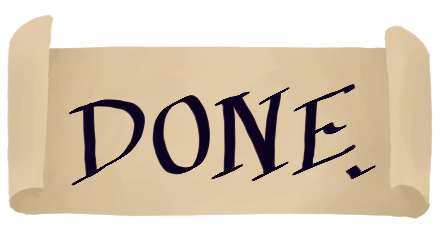
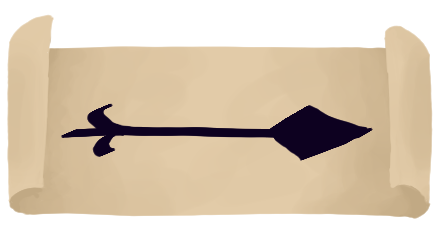
finalisations scène fin & titre

diff --git a/scenes/Niveaux/Niveau1.js b/scenes/Niveaux/Niveau1.js
@@ -11,7 +11,7 @@ class Niveau1 extends Phaser.Scene{
      }
 
     create(){  
-        content = 'Let’s see how you get on with this first page! The first letter is an illuminated ‘A’! Elsewhere, the names ‘Aldenwick’ and ‘Elvenmere’, our town and the sea, are not capitalised. If you need help, click on the button with ‘?’';
+        content = 'Let’s see how you get on with this first page! The first letter is an illuminated ‘A’! Elsewhere, the names ‘Aldenwick’ and ‘Elvenmere’, our town and the sea, are not capitalised. If you need help, click on the button with ‘?’ Click on the arrow when you’re done.';
         reinitialiseInput();
 
         this.add.image(100, 250,'niv1').setScale(1/3).setOrigin(0);

diff --git a/scenes/title.js b/scenes/title.js
@@ -30,7 +30,7 @@ class Title extends Phaser.Scene {
         var biblio = this.add.image(0,0,'biblio').setOrigin(0);
         biblio.displayWidth = config.width; 
         biblio.displayHeight = config.height;
-        this.add.text(config.width/2, config.height/2,'Welcome.',
+        this.add.text(config.width/2, config.height/2,'Welcome to Aldelwick Library.',
         { font: "72px Times", fill: "#ffffff", align: "center"})
         .setOrigin(0.5);
         var button = this.add.text(config.width/2,config.height/2+100,

diff --git a/scenes/End.js b/scenes/End.js
@@ -28,7 +28,7 @@ preload(){
 }
 
 create(){
-    content = "Wonderful! Your transcriber training is now officially over. Thanks for taking part in it!";
+    content = "Wonderful! I think that's all we needed to do for now. On behalf of Aldelwick Library, I congratulate and thank you for your hard work!";
     textBox.start(content,35);
     textBox.on('complete', function() {
         var button = this.add.text(config.width/2, config.height/2,

diff --git a/scenes/main.js b/scenes/main.js
@@ -67,7 +67,7 @@ create ()  {
         fontFamily: 'Courier',
         fontSize: '30px',
         fontStyle: '',
-    });
+    })
     
     textBox = this.rexUI.add.textBox({
         x: 100,
@@ -108,7 +108,7 @@ create ()  {
     .setOrigin(0)
     .setInteractive()
 
-    this.scene.launch('Niveau');
+    this.scene.launch('Tuto');
 
 }
 

diff --git a/scenes/Niveau.js b/scenes/Niveau.js
@@ -80,7 +80,7 @@ create ()  {
     }
     }, this);
 
-    done = this.add.image(1720, 950, 'done').setScale(0.3).setOrigin(0);
+    done = this.add.image(1680, 940, 'done').setScale(0.45).setOrigin(0);
     done.setInteractive({ useHandCursor: true })
     .on('pointerdown', function (pointer)
     {
